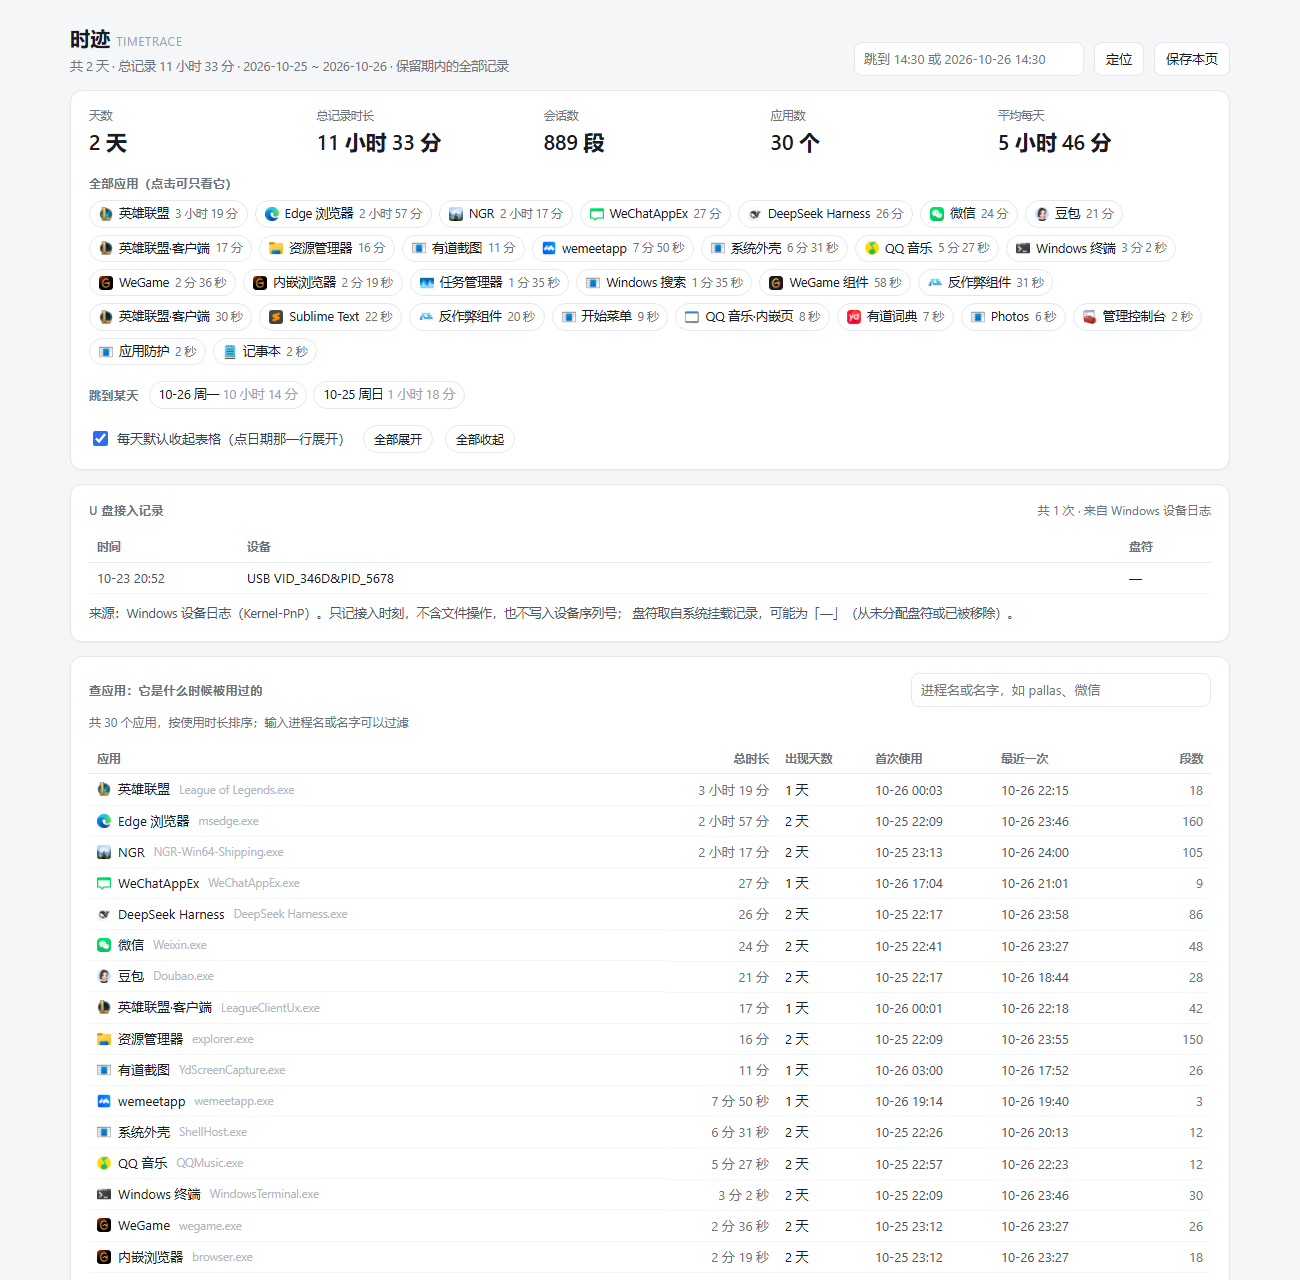
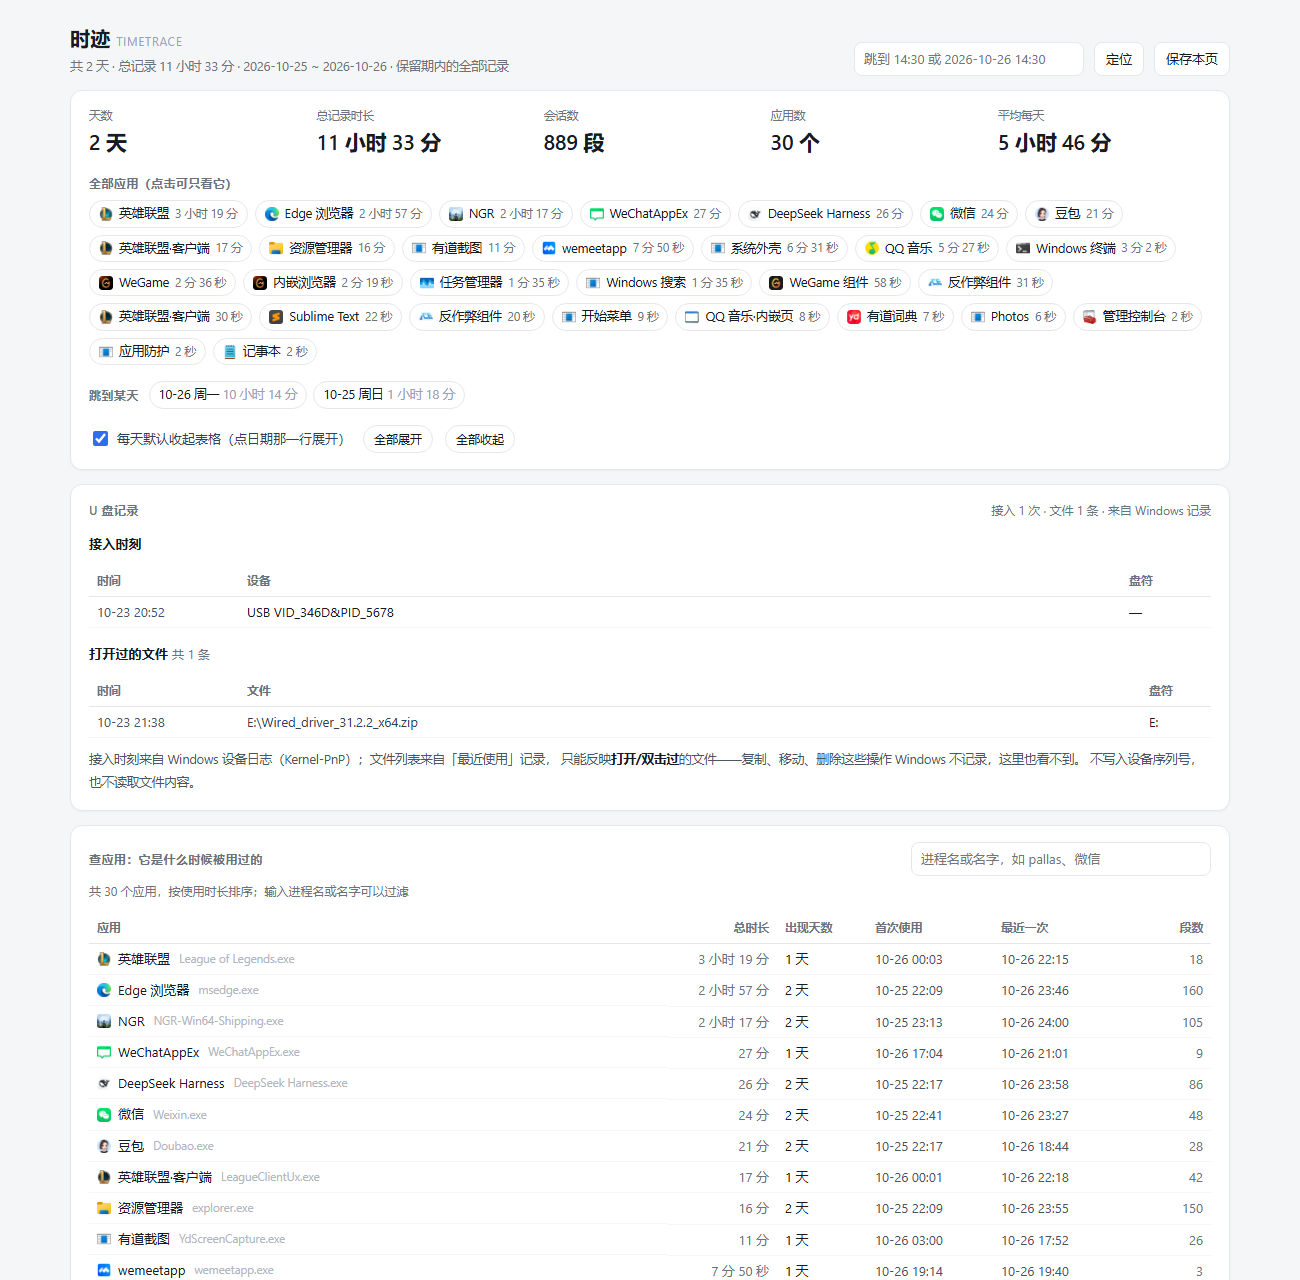
feat: list files opened from a USB drive (recent items)
- events command also prints USB files opened, from %APPDATA%\Microsoft\Windows\Recent
- only targets on removable (or currently absent) drive letters; fixed/CD/network excluded
- page: second table '打开过的文件' inside the U disk card, path ellipsis + tooltip
- README documents what is visible vs not (copy/delete is not recorded by Windows)
- bump to 1.3.0

diff --git a/timetrace.py b/timetrace.py
@@ -33,7 +33,7 @@ from datetime import date, datetime, time as dtime, timedelta
 
 APP_NAME = "时迹"
 APP_NAME_EN = "TimeTrace"
-VERSION = "1.2.0"
+VERSION = "1.3.0"
 APP_TITLE = "时迹 · 操作时间线"
 
 # 日志保留天数：超过这个天数的数据分片会被自动删除
@@ -180,6 +180,84 @@ def load_usb_events(start_day, end_day):
         })
     events.sort(key=lambda e: (e["date"], e["t"]))
     return events
+
+
+_PS_RECENT_TEMPLATE = r'''
+$recent = Join-Path $env:APPDATA 'Microsoft\Windows\Recent'
+$vols = @{}
+try {
+  Get-Volume -ErrorAction Stop | ForEach-Object {
+    if ($_.DriveLetter) { $vols[[string]$_.DriveLetter] = [string]$_.DriveType }
+  }
+} catch { }
+$sh = New-Object -ComObject WScript.Shell
+$out = New-Object System.Collections.ArrayList
+if (Test-Path $recent) {
+  $links = Get-ChildItem $recent -Filter *.lnk -ErrorAction SilentlyContinue
+  foreach ($l in $links) {
+    try { $t = $sh.CreateShortcut($l.FullName).TargetPath } catch { continue }
+    if (-not $t -or $t -notmatch '^([A-Za-z]):\\') { continue }
+    $d = $matches[1].ToUpper()
+    $type = ''
+    if ($vols.ContainsKey($d)) { $type = $vols[$d] }
+    if ($type -eq 'Fixed' -or $type -eq 'CDRom' -or $type -eq 'Network') { continue }
+    [void]$out.Add([pscustomobject]@{
+      time = $l.LastWriteTime.ToString('yyyy-MM-ddTHH:mm:ss')
+      path = $t
+      drive = $d
+    })
+  }
+}
+$out | ConvertTo-Json -Compress
+'''
+
+
+def load_recent_usb_files():
+    """从「最近使用」里找出指向可移动盘（或当前不存在的盘符）的文件。"""
+    if os.name != "nt":
+        return []
+    try:
+        proc = subprocess.run(
+            ["powershell", "-NoProfile", "-NonInteractive", "-EncodedCommand",
+             base64.b64encode(_PS_RECENT_TEMPLATE.encode("utf-16-le")).decode("ascii")],
+            capture_output=True,
+            creationflags=getattr(subprocess, "CREATE_NO_WINDOW", 0),
+            timeout=60,
+        )
+    except (OSError, subprocess.SubprocessError):
+        return []
+    raw = proc.stdout.decode("utf-8", "replace").strip()
+    if not raw:
+        return []
+    try:
+        data = json.loads(raw)
+    except ValueError:
+        return []
+    if isinstance(data, dict):
+        data = [data]
+    if not isinstance(data, list):
+        return []
+
+    out, seen = [], set()
+    for item in data:
+        try:
+            path = str(item.get("path") or "")
+            drive = str(item.get("drive") or "").upper()
+            when = datetime.strptime(item.get("time", ""), "%Y-%m-%dT%H:%M:%S")
+        except (TypeError, ValueError, AttributeError):
+            continue
+        if not path or len(path) < 4:
+            continue
+        key = path.lower()
+        if key in seen:
+            continue
+        seen.add(key)
+        midnight = datetime.combine(when.date(), dtime.min)
+        out.append({"date": when.date().isoformat(),
+                    "t": int((when - midnight).total_seconds()),
+                    "path": path, "drive": drive})
+    out.sort(key=lambda e: (e["date"], e["t"]), reverse=True)
+    return out[:300]
 
 
 # --------------------------------------------------------------------------
@@ -570,6 +648,7 @@ input:focus{outline:2px solid rgba(47,109,237,.22);border-color:var(--accent)}
 .hcell .sw{width:12px;height:12px}
 .usbmark{position:absolute;top:0;bottom:0;width:0;border-left:2px dashed #0f766e;opacity:.85;z-index:2;pointer-events:auto}
 .usbmark::after{content:"";position:absolute;top:2px;left:-4px;width:6px;height:6px;border-radius:50%;background:#0f766e}
+.usbpath{max-width:640px;overflow:hidden;text-overflow:ellipsis;white-space:nowrap;color:#344054}
 .hcell .hbar{position:absolute;left:0;right:0;bottom:0;height:3px;opacity:.9}
 .hcell.hoverable{cursor:pointer}
 .hcell.hoverable:hover{background:#eceff4}
@@ -643,20 +722,40 @@ footer{color:#98a2b3;font-size:11.5px;text-align:center;margin-top:10px}
 
   <div class="card" id="usbcard" style="display:none">
     <div class="row between">
-      <h2 style="margin:0">U 盘接入记录</h2>
+      <h2 style="margin:0">U 盘记录</h2>
       <span id="usbhint" class="hint" style="color:var(--muted);font-size:12px"></span>
     </div>
-    <table class="apptable">
-      <thead><tr>
-        <th style="width:150px">时间</th>
-        <th>设备</th>
-        <th style="width:90px">盘符</th>
-      </tr></thead>
-      <tbody id="usbtbody"></tbody>
-    </table>
-    <div class="note" style="margin-top:8px">
-      来源：Windows 设备日志（Kernel-PnP）。只记接入时刻，不含文件操作，也不写入设备序列号；
-      盘符取自系统挂载记录，可能为「—」（从未分配盘符或已被移除）。
+
+    <div id="usbconnwrap">
+      <h3 style="font-size:13px;margin:14px 0 6px;font-weight:600">接入时刻</h3>
+      <table class="apptable">
+        <thead><tr>
+          <th style="width:150px">时间</th>
+          <th>设备</th>
+          <th style="width:90px">盘符</th>
+        </tr></thead>
+        <tbody id="usbtbody"></tbody>
+      </table>
+    </div>
+
+    <div id="usbfileswrap" style="display:none">
+      <h3 style="font-size:13px;margin:16px 0 6px;font-weight:600">打开过的文件
+        <span id="usbfileshint" class="hint" style="color:var(--muted);font-size:12px;font-weight:400"></span>
+      </h3>
+      <table class="apptable">
+        <thead><tr>
+          <th style="width:150px">时间</th>
+          <th>文件</th>
+          <th style="width:70px">盘符</th>
+        </tr></thead>
+        <tbody id="usbfilestbody"></tbody>
+      </table>
+    </div>
+
+    <div class="note" style="margin-top:10px">
+      接入时刻来自 Windows 设备日志（Kernel-PnP）；文件列表来自「最近使用」记录，
+      只能反映<b>打开/双击过</b>的文件——复制、移动、删除这些操作 Windows 不记录，这里也看不到。
+      不写入设备序列号，也不读取文件内容。
     </div>
   </div>
 
@@ -944,16 +1043,39 @@ function dayHtml(d){
 
 function renderUsb(){
   var list = M.usb || [];
-  if (!list.length) return;
-  var h = "";
-  for (var i = list.length - 1; i >= 0; i--){
-    var e = list[i];
-    h += '<tr><td class="t">' + e.date.slice(5) + " " + hm(e.t) + '</td>'
-       + '<td>USB VID_' + esc(e.vid) + '&amp;PID_' + esc(e.pid) + '</td>'
-       + '<td>' + (e.letter ? esc(e.letter) + ":" : "—") + '</td></tr>';
+  var files = M.usbfiles || [];
+  if (!list.length && !files.length) return;
+
+  if (list.length){
+    var h = "";
+    for (var i = list.length - 1; i >= 0; i--){
+      var e = list[i];
+      h += '<tr><td class="t">' + e.date.slice(5) + " " + hm(e.t) + '</td>'
+         + '<td>USB VID_' + esc(e.vid) + '&amp;PID_' + esc(e.pid) + '</td>'
+         + '<td>' + (e.letter ? esc(e.letter) + ":" : "—") + '</td></tr>';
+    }
+    $("#usbtbody").innerHTML = h;
+  } else {
+    $("#usbconnwrap").style.display = "none";
   }
-  $("#usbtbody").innerHTML = h;
-  $("#usbhint").textContent = "共 " + list.length + " 次 · 来自 Windows 设备日志";
+
+  if (files.length){
+    var fh = "";
+    for (var j = 0; j < files.length; j++){
+      var f = files[j];
+      fh += '<tr><td class="t">' + f.date.slice(5) + " " + hm(f.t) + '</td>'
+          + '<td class="usbpath" title="' + esc(f.path) + '">' + esc(f.path) + '</td>'
+          + '<td>' + esc(f.drive) + ':</td></tr>';
+    }
+    $("#usbfilestbody").innerHTML = fh;
+    $("#usbfileshint").textContent = "共 " + files.length + " 条";
+    $("#usbfileswrap").style.display = "";
+  }
+
+  var bits = [];
+  if (list.length) bits.push("接入 " + list.length + " 次");
+  if (files.length) bits.push("文件 " + files.length + " 条");
+  $("#usbhint").textContent = bits.join(" · ") + " · 来自 Windows 记录";
   $("#usbcard").style.display = "";
 }
 function indexUsb(){
@@ -1602,6 +1724,7 @@ def cmd_html(args):
     if not getattr(args, "no_events", False):
         ef, et = event_range(args, t)
         model["usb"] = load_usb_events(ef, et)
+        model["usbfiles"] = load_recent_usb_files()
     html = render_html(model)
 
     out = args.out
@@ -1621,6 +1744,9 @@ def cmd_html(args):
     usb = model.get("usb") or []
     if usb:
         print("U 盘接入：%d 次（来自 Windows 设备日志）" % len(usb))
+    files = model.get("usbfiles") or []
+    if files:
+        print("U 盘文件：%d 条（来自“最近使用”记录）" % len(files))
     if not args.no_open:
         try:
             os.startfile(out)  # noqa: S606  (Windows)
@@ -1702,6 +1828,7 @@ def cmd_events(args):
     auto_prune(args)
     ef, et = event_range(args)
     events = load_usb_events(ef, et)
+    files = load_recent_usb_files()
     print()
     print("U 盘接入记录 · %s 至 %s" % (ef.isoformat(), et.isoformat()))
     print("-" * 66)
@@ -1712,6 +1839,16 @@ def cmd_events(args):
             extra = ("   盘符 " + e["letter"] + ":") if e["letter"] else ""
             print("  %s %s   USB VID_%s&PID_%s%s" % (e["date"], hms_local(e["t"])[:5],
                                                      e["vid"], e["pid"], extra))
+    print()
+    print("U 盘上打开过的文件（来自“最近使用”）")
+    print("-" * 66)
+    if not files:
+        print(" 没有查到。")
+    else:
+        for f in files[:40]:
+            print("  %s %s   [%s:]  %s" % (f["date"], hms_local(f["t"])[:5], f["drive"], f["path"]))
+        if len(files) > 40:
+            print("  …还有 %d 条" % (len(files) - 40))
     print()
 
 

diff --git a/README.md b/README.md
@@ -8,7 +8,7 @@ RustTimeNoter 记下了你每天的电脑使用情况，但它自带的报表只
 - **真实应用图标**：直接从本机 exe 里提取，不是色块猜的
 - 24 小时色带：鼠标移上去就显示那一刻在用什么、这一段从几点到几点
 - **每小时主力应用**：色带下面一排图标，一眼看出每个小时主要在用什么
-- **U 盘接入记录**：从 Windows 设备日志里读出什么时候插过 U 盘、分到哪个盘符
+- **U 盘记录**：什么时候插过 U 盘，以及从 U 盘打开过哪些文件
 - 每天一张卡片：应用合计 + 完整会话表，打开即全部展开
 - 查某个软件：看到一个陌生进程名，输入几个字母就知道它什么时候跑过
 - 查某个时刻：输入 `14:30`，直接跳到那一刻并高亮
@@ -22,7 +22,7 @@ RustTimeNoter 记下了你每天的电脑使用情况，但它自带的报表只
 ## 快速开始
 
 1. 先装好 **RustTimeNoter**（本工具只读它的数据，不记录任何东西）
-2. 下载 [`TimeTrace-1.2.0-win64.zip`](../../releases/download/v1.2.0/TimeTrace-1.2.0-win64.zip)（约 8.6 MB，或到 [Releases](../../releases) 看所有版本），解压到任意位置
+2. 下载 [`TimeTrace-1.3.0-win64.zip`](../../releases/download/v1.3.0/TimeTrace-1.3.0-win64.zip)（约 8.6 MB，或到 [Releases](../../releases) 看所有版本），解压到任意位置
 3. 双击 **`时间线.bat`** —— 浏览器会打开时间线页面
 
 不需要安装 Python、不需要管理员权限、不写注册表、不联网。
@@ -56,26 +56,43 @@ RustTimeNoter 记下了你每天的电脑使用情况，但它自带的报表只
 
 ![每天卡片](screenshot-day.png)
 
-## U 盘接入记录
+## U 盘记录
 
-页面顶部会多一张「U 盘接入记录」表，列出保留期内每一次 U 盘接入：
+页面顶部会多一张「U 盘记录」卡片，分两块：
+
+**① 接入时刻** —— 来自 Windows 设备日志 `Microsoft-Windows-Kernel-PnP/Configuration`
+（读它不需要管理员权限）：
 
 | 时间 | 设备 | 盘符 |
 | --- | --- | --- |
 | 10-23 20:52 | USB VID_346D&PID_5678 | — |
 
-- **来源**：Windows 设备日志 `Microsoft-Windows-Kernel-PnP/Configuration`（读它不需要管理员权限）。
-  只取设备实例形如 `USB\VID_*`、且驱动是 `usbstor.inf` 的设备，也就是 U 盘 / USB 移动硬盘；
-  键盘鼠标、蓝牙适配器、摄像头这些不会被算进来
-- **只有接入时刻**：不记录插了哪些文件、拷了什么，也**不写入设备序列号**；
-  同一次插拔系统会连着写两条事件，5 分钟内的同型号会合并成一次
-- **盘符**：从系统挂载记录 `HKLM\SYSTEM\MountedDevices` 里按设备反查；
-  如果这块盘从没分配过盘符、或者挂载记录已被清掉，就显示 `—`
-- **范围**：默认最近 30 天（和保留期一致），`--days 7`、`--from/--to` 同样生效；
-  所以即使某天完全没打开过电脑，只要 Windows 记了设备事件，也能看到
-- 当天色带上会画一条青色虚线标记接入时刻；那天如果本来就没有应用记录，
-  这次接入只在顶部这张表里出现
-- 不想读设备日志可以加 `--no-events`
+- 只取设备实例形如 `USB\VID_*`、且驱动是 `usbstor.inf` 的设备，也就是 U 盘 / USB 移动硬盘；
+  键盘鼠标、蓝牙适配器、摄像头不会算进来
+- 只记接入时刻，系统没有可靠的「拔出」事件；同一次插拔会连写两条事件，
+  5 分钟内的同型号合并成一次
+- 盘符从 `HKLM\SYSTEM\MountedDevices` 按设备反查，从没分配过盘符就显示 `—`
+
+**② 打开过的文件** —— 来自 Windows 的「最近使用」记录（`%APPDATA%\Microsoft\Windows\Recent`）：
+
+| 时间 | 文件 | 盘符 |
+| --- | --- | --- |
+| 10-23 21:38 | E:\Wired_driver_31.2.2_x64.zip | E: |
+
+- 只列出目标在**可移动盘**上的条目；指向本机固定硬盘、光驱、网络盘的一律排除
+- 如果那个盘符现在已不存在（U 盘拔了），也会保留下来
+- 同一路径只保留最新一条，最多 300 条
+
+**看不到的**：往 U 盘拷了哪些文件、从 U 盘拷走了什么、删了什么。
+复制/移动只是「读源 + 写目标」，Windows 默认不产生事件；要抓这类行为得开启对象访问审核
+（需要管理员、只对之后生效、日志量极大）或装 Sysmon 之类的监控，历史记录补不回来。
+
+其他说明：
+
+- 范围默认最近 30 天，`--days 7`、`--from/--to` 同样生效
+- 不写入设备序列号，也不读取任何文件内容
+- 不想读这些记录可以加 `--no-events`
+- 命令行看同样的内容：`TimeTrace.exe events`（或双击 `查U盘.bat`）
 
 ## 保留 30 天，过期自动清理
 
@@ -125,7 +142,8 @@ TimeTrace.exe --version
 
 - 数据始终在 `%LOCALAPPDATA%\RustTimeNoter`，时迹只读取此数据
 - 应用图标从本机 exe 本地提取，只存在本机缓存目录，同样不上传
-- U 盘记录读取的是本机 Windows 设备日志，只取时间 + 设备 ID + 盘符，不读文件内容、不存序列号
+- U 盘记录读取的是本机 Windows 设备日志和「最近使用」记录，只有时间、设备 ID、盘符和文件路径，
+  不读文件内容、不存设备序列号
 - 页面是本地静态 HTML，数据内嵌其中，不会上传任何东西
 - 本工具不收集遥测、不含网络请求
 
